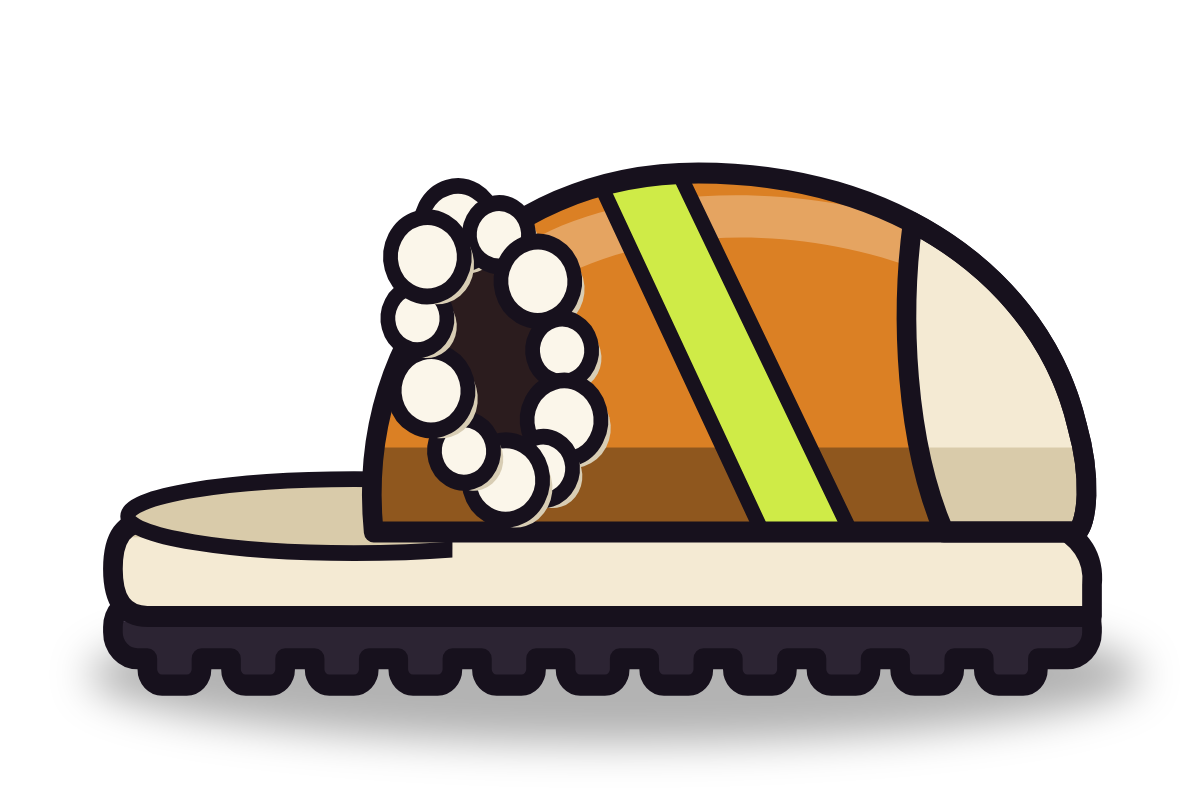
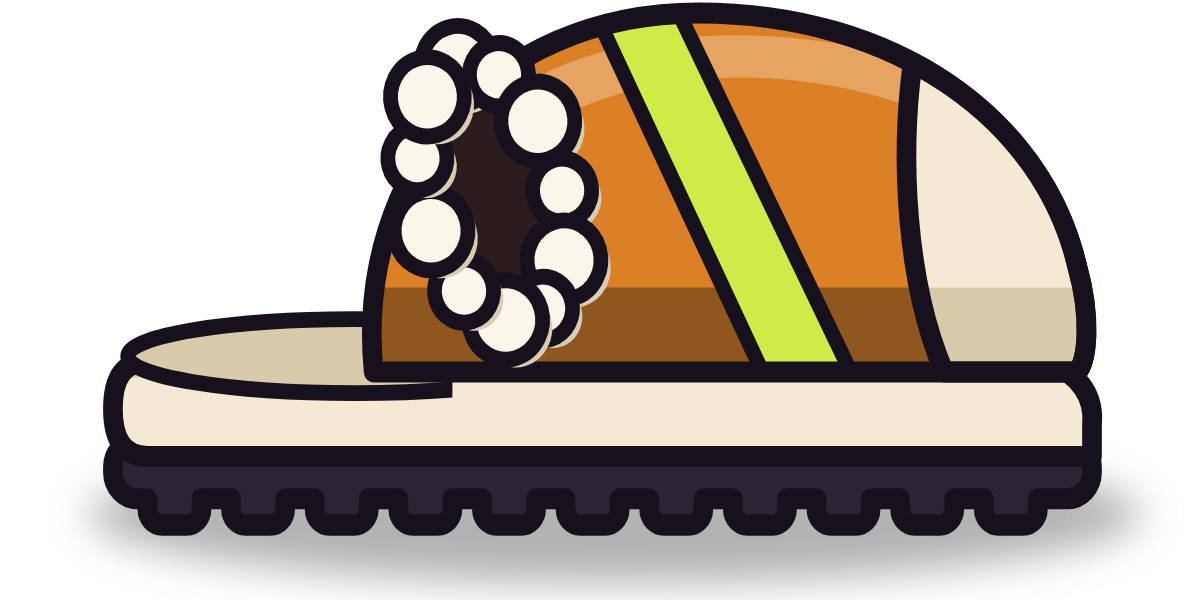
Спрайт тапка 2:1 вместо 3:2; накладки не обрезаются по краю бокса

diff --git a/lib/ui/slipper_sprite.dart b/lib/ui/slipper_sprite.dart
@@ -9,7 +9,7 @@ import '../game/slipper_kind.dart';
 enum SlipperMood { idle, attack, hurt, happy, dead }
 
 /// Спрайт тапка: PNG из каталога + аксессуары прокачки в якорях + эффекты.
-/// Бокс всегда 3:2 от [width]; картинка вписывается с сохранением пропорций.
+/// Бокс 2:1 от [width]; картинка другой пропорции вписывается с полями.
 class SlipperSprite extends StatefulWidget {
   const SlipperSprite({
     super.key,
@@ -26,7 +26,9 @@ class SlipperSprite extends StatefulWidget {
   final bool animate;
   final double width;
 
-  double get height => width * 2 / 3;
+  static const double aspect = 2;
+
+  double get height => width / aspect;
 
   @override
   State<SlipperSprite> createState() => _SlipperSpriteState();
@@ -95,6 +97,8 @@ class _SlipperSpriteState extends State<SlipperSprite>
     Widget sprite = SizedBox.fromSize(
       size: box,
       child: Stack(
+        // Аксессуары (шипы, пламя) могут выходить за края картинки.
+        clipBehavior: Clip.none,
         children: [
           // Задний слой: пламя.
           Positioned.fill(
@@ -126,9 +130,9 @@ class _SlipperSpriteState extends State<SlipperSprite>
     );
   }
 
-  /// Прямоугольник, в который вписана картинка внутри бокса 3:2.
+  /// Прямоугольник, в который вписана картинка внутри бокса.
   Rect _fittedRect(Size box) {
-    final img = _imageSize ?? const Size(3, 2);
+    final img = _imageSize ?? const Size(2, 1);
     final scale = min(box.width / img.width, box.height / img.height);
     final w = img.width * scale;
     final h = img.height * scale;

diff --git a/lib/game/slipper_kind.dart b/lib/game/slipper_kind.dart
@@ -69,7 +69,7 @@ class SlipperKind {
   final String name;
   final Rarity rarity;
 
-  /// Путь к PNG: прозрачный фон, вид сбоку, носок вправо, желательно 1200×800.
+  /// Путь к PNG: прозрачный фон, вид сбоку, носок вправо, желательно 1200×600 (2:1).
   final String asset;
   final SlipperAnchors anchors;
   final Map<Bonus, double> bonuses;
@@ -93,15 +93,15 @@ class SlipperCatalog {
       asset: 'assets/slippers/basic.png',
       anchors: SlipperAnchors(
         ridge: [
-          Offset(0.40, 0.34),
-          Offset(0.48, 0.25),
-          Offset(0.59, 0.21),
-          Offset(0.70, 0.22),
-          Offset(0.79, 0.29),
+          Offset(0.40, 0.19),
+          Offset(0.48, 0.07),
+          Offset(0.59, 0.02),
+          Offset(0.70, 0.03),
+          Offset(0.79, 0.12),
         ],
-        side: [Offset(0.50, 0.58), Offset(0.60, 0.60), Offset(0.70, 0.59)],
-        heel: Offset(0.34, 0.41),
-        sole: Rect.fromLTRB(0.21, 0.70, 0.83, 0.74),
+        side: [Offset(0.50, 0.51), Offset(0.60, 0.53), Offset(0.70, 0.52)],
+        heel: Offset(0.34, 0.28),
+        sole: Rect.fromLTRB(0.21, 0.67, 0.83, 0.72),
       ),
     ),
     // Пример записи с бонусом:

diff --git a/lib/ui/screens/arena_screen.dart b/lib/ui/screens/arena_screen.dart
@@ -90,16 +90,16 @@ class _OpponentCard extends StatelessWidget {
       child: Row(
         children: [
           Container(
-            width: 120,
-            height: 78,
+            width: 104,
+            height: 60,
             decoration: BoxDecoration(
               color: GameColors.panelDark,
               borderRadius: BorderRadius.circular(12),
               border: Border.all(color: GameColors.outline, width: 2.5),
             ),
-            child: SlipperSprite(slipper: s, width: 112, flip: true, animate: false),
+            child: SlipperSprite(slipper: s, width: 96, flip: true, animate: false),
           ),
-          const SizedBox(width: 12),
+          const SizedBox(width: 10),
           Expanded(
             child: Column(
               crossAxisAlignment: CrossAxisAlignment.start,

diff --git a/lib/ui/screens/home_screen.dart b/lib/ui/screens/home_screen.dart
@@ -70,14 +70,14 @@ class _HomeScreenState extends State<HomeScreen>
                   behavior: HitTestBehavior.opaque,
                   child: SizedBox(
                     width: 340,
-                    height: 230,
+                    height: 200,
                     child: Stack(
                       alignment: Alignment.center,
                       clipBehavior: Clip.none,
                       children: [
                         const Positioned(bottom: 6, child: Rug(width: 340, aspect: 0.3)),
                         Positioned(
-                          bottom: 20,
+                          bottom: 26,
                           child: AnimatedBuilder(
                             animation: _tapAnim,
                             builder: (_, child) {

diff --git a/test/tools/preview_sprites_test.dart b/test/tools/preview_sprites_test.dart
@@ -32,7 +32,11 @@ void main() {
               alignment: Alignment.center,
               child: RepaintBoundary(
                 key: key,
-                child: SlipperSprite(slipper: slipper, width: 480, animate: false),
+                // Поля — чтобы увидеть аксессуары, выходящие за картинку.
+                child: Padding(
+                  padding: const EdgeInsets.all(60),
+                  child: SlipperSprite(slipper: slipper, width: 480, animate: false),
+                ),
               ),
             ),
           ),

diff --git a/lib/ui/screens/battle_screen.dart b/lib/ui/screens/battle_screen.dart
@@ -314,7 +314,7 @@ class _Fighter extends StatelessWidget {
   Widget build(BuildContext context) {
     return SizedBox(
       width: width,
-      height: width * 0.68,
+      height: width * 0.56,
       child: Stack(
         alignment: Alignment.bottomCenter,
         clipBehavior: Clip.none,

diff --git a/README.md b/README.md
@@ -15,7 +15,7 @@ flutter test              # тесты боевого движка
 ## Как добавить тапок
 
 1. Нарисовать PNG: прозрачный фон, вид сбоку, **носок вправо**, без лица.
-   Пропорция 3:2, рекомендуемый размер **1200×800** (600×400 сойдёт для черновика).
+   Пропорция 2:1, рекомендуемый размер **1200×600** (600×300 сойдёт для черновика).
    Подошва у всех тапков на одной высоте — тогда они ровно стоят на коврике.
 2. Положить файл в `assets/slippers/<id>.png`.
 3. Добавить запись в `SlipperCatalog.all` (`lib/game/slipper_kind.dart`): имя, редкость,
